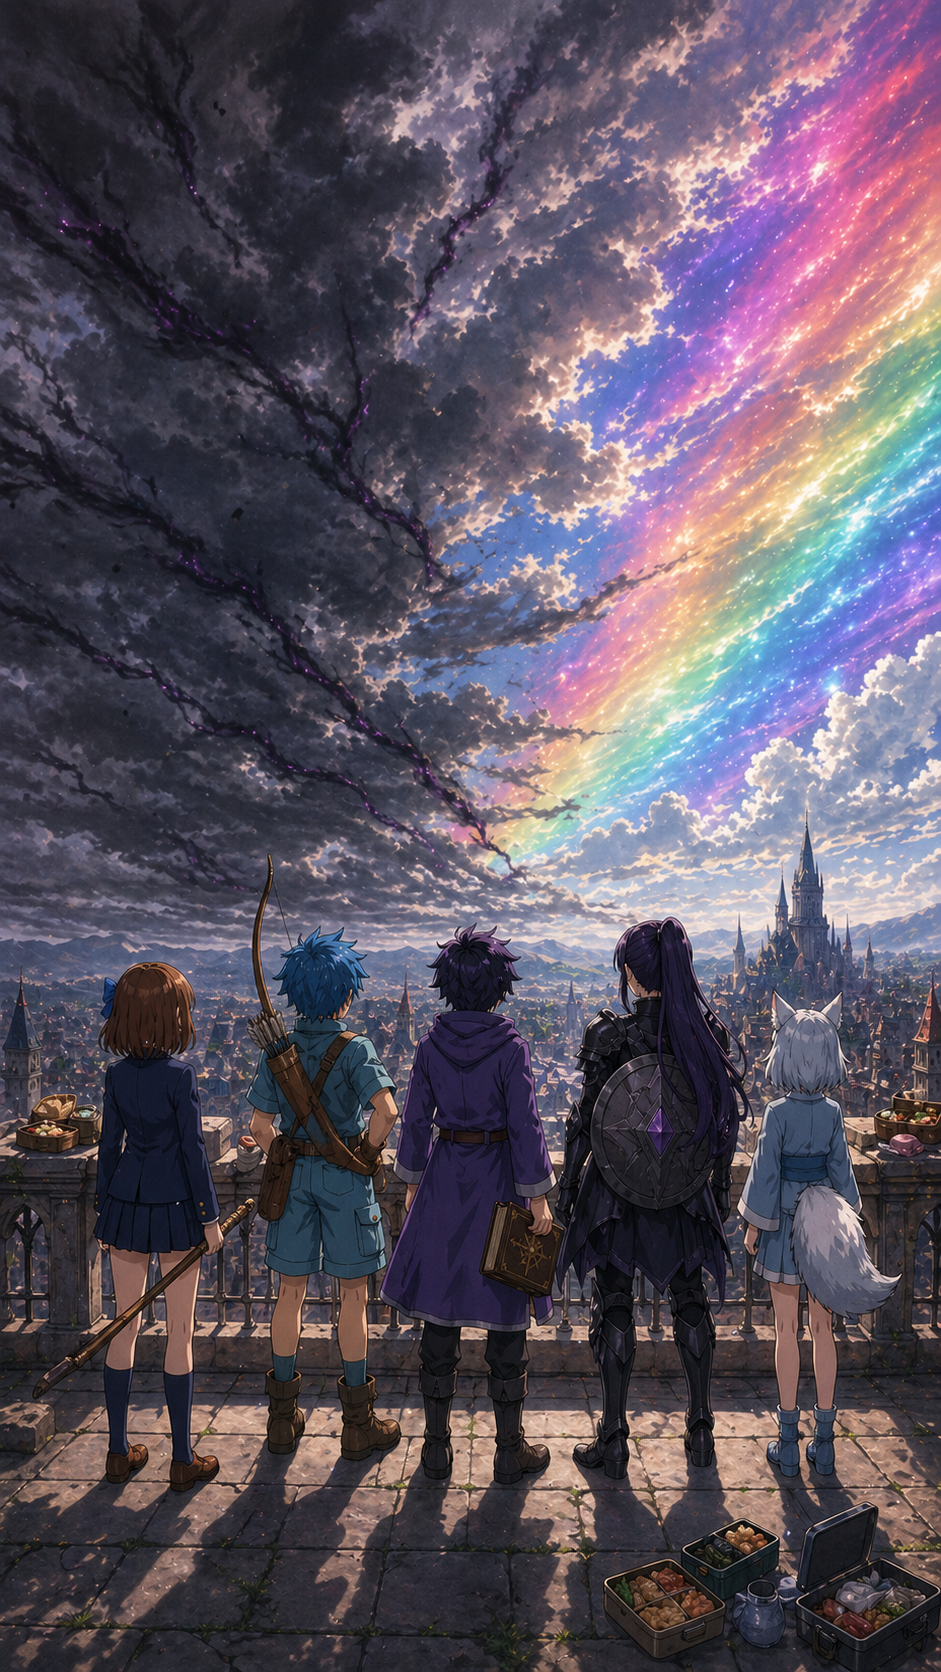
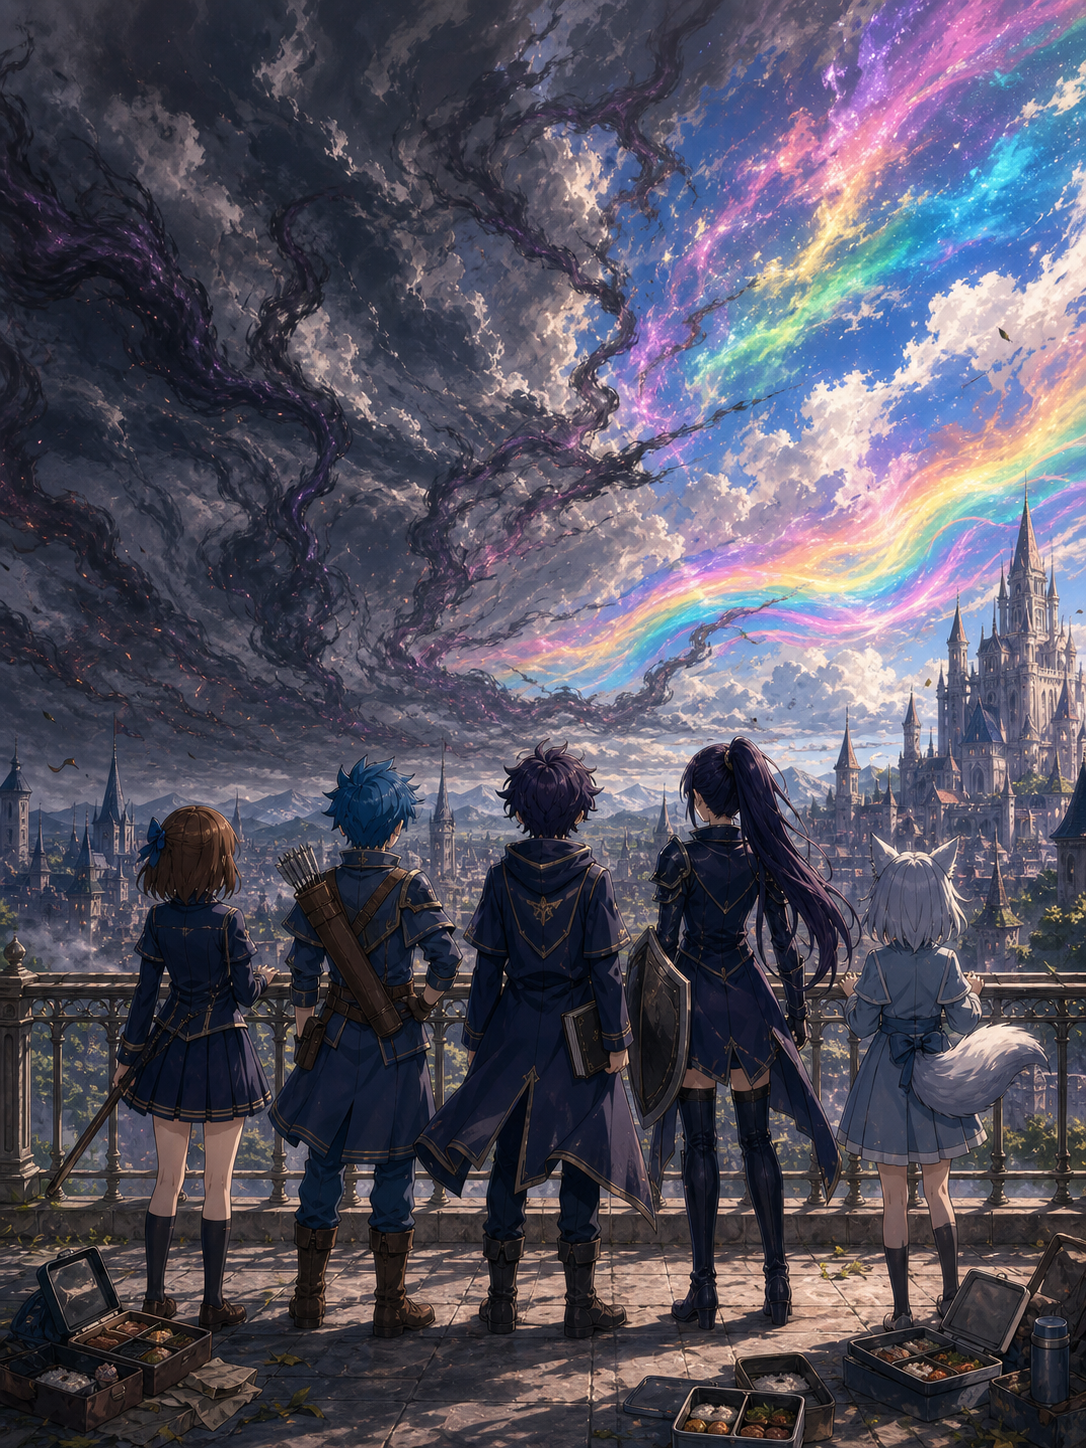
chore(s1c1): 第1章 背景画像 8枚 3:4 再生成版を取り込み (cache buster 20260501k)
野沢さん側で全 8枚を 3:4 縦長 (1024×1536) で再生成完了:
- academy_morning.png / training_ground.png / rooftop_omen.png (前回 commit 取込済の更新版)
- izabel_descent.png / rift_emergence.png / chisato_awakening.png / prisma_descent.png / rooftop_dawn.png (新規)

各 _thumb.webp も Box から取込 (rooftop_dawn のみ ffmpeg lanczos で生成、 768×1024)。

挿絵 (16:9 横長) は既存維持 — 野沢方針: 「挿絵はもともとのやつで良い」。

cache buster bump で旧画像キャッシュを無効化、 dev preview で新画像が即反映される。

🤖 Generated with [Claude Code](https://claude.com/claude-code)

diff --git a/index.html b/index.html
@@ -25,7 +25,7 @@
 <link rel="icon" href="/images/icons/icon-16.png" type="image/png" sizes="16x16">
 <link rel="apple-touch-icon" href="/images/icons/icon-180.png">
 <link rel="manifest" href="/manifest.json?v=20260501a25">
-<link rel="stylesheet" href="/style.css?v=20260501j">
+<link rel="stylesheet" href="/style.css?v=20260501k">
 <script src="https://www.gstatic.com/firebasejs/10.12.0/firebase-app-compat.js"></script>
 <script src="https://www.gstatic.com/firebasejs/10.12.0/firebase-auth-compat.js"></script>
 <script src="https://www.gstatic.com/firebasejs/10.12.0/firebase-database-compat.js"></script>
@@ -588,7 +588,7 @@ if ('serviceWorker' in navigator) {
 <audio id="bgm-home" preload="auto"></audio>
 
 <script src="https://cdn.jsdelivr.net/npm/marked@12/marked.min.js"></script>
-<script src="/script.js?v=20260501j"></script>
-<script src="/gasshuku.js?v=20260501j"></script>
+<script src="/script.js?v=20260501k"></script>
+<script src="/gasshuku.js?v=20260501k"></script>
 </body>
 </html>
